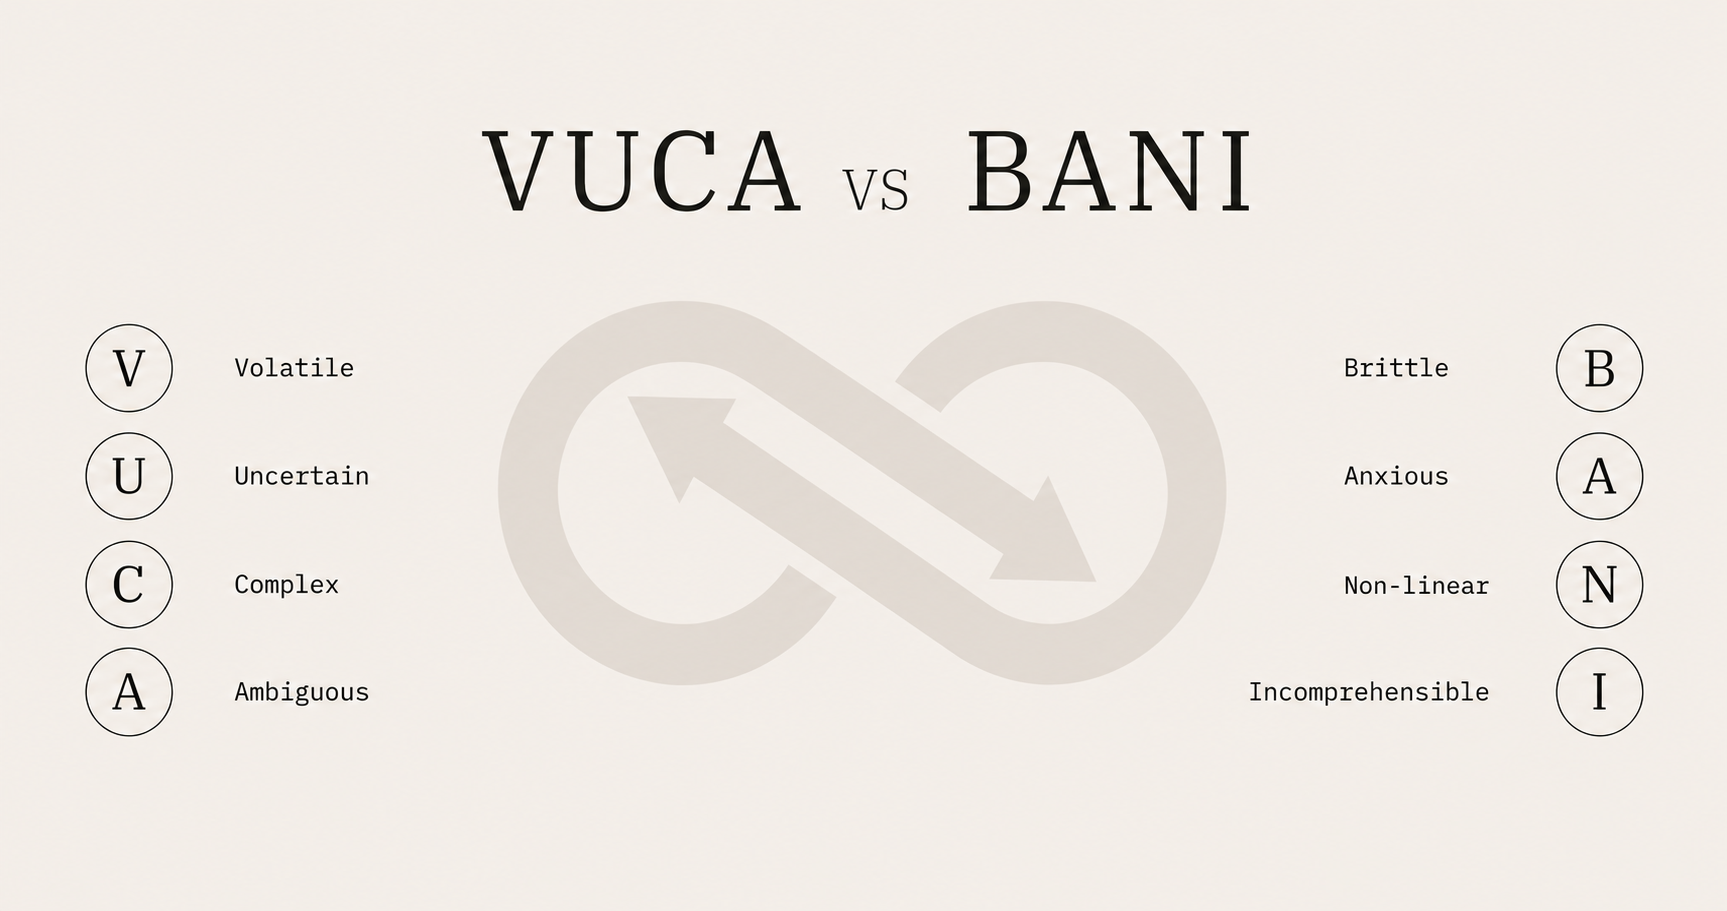
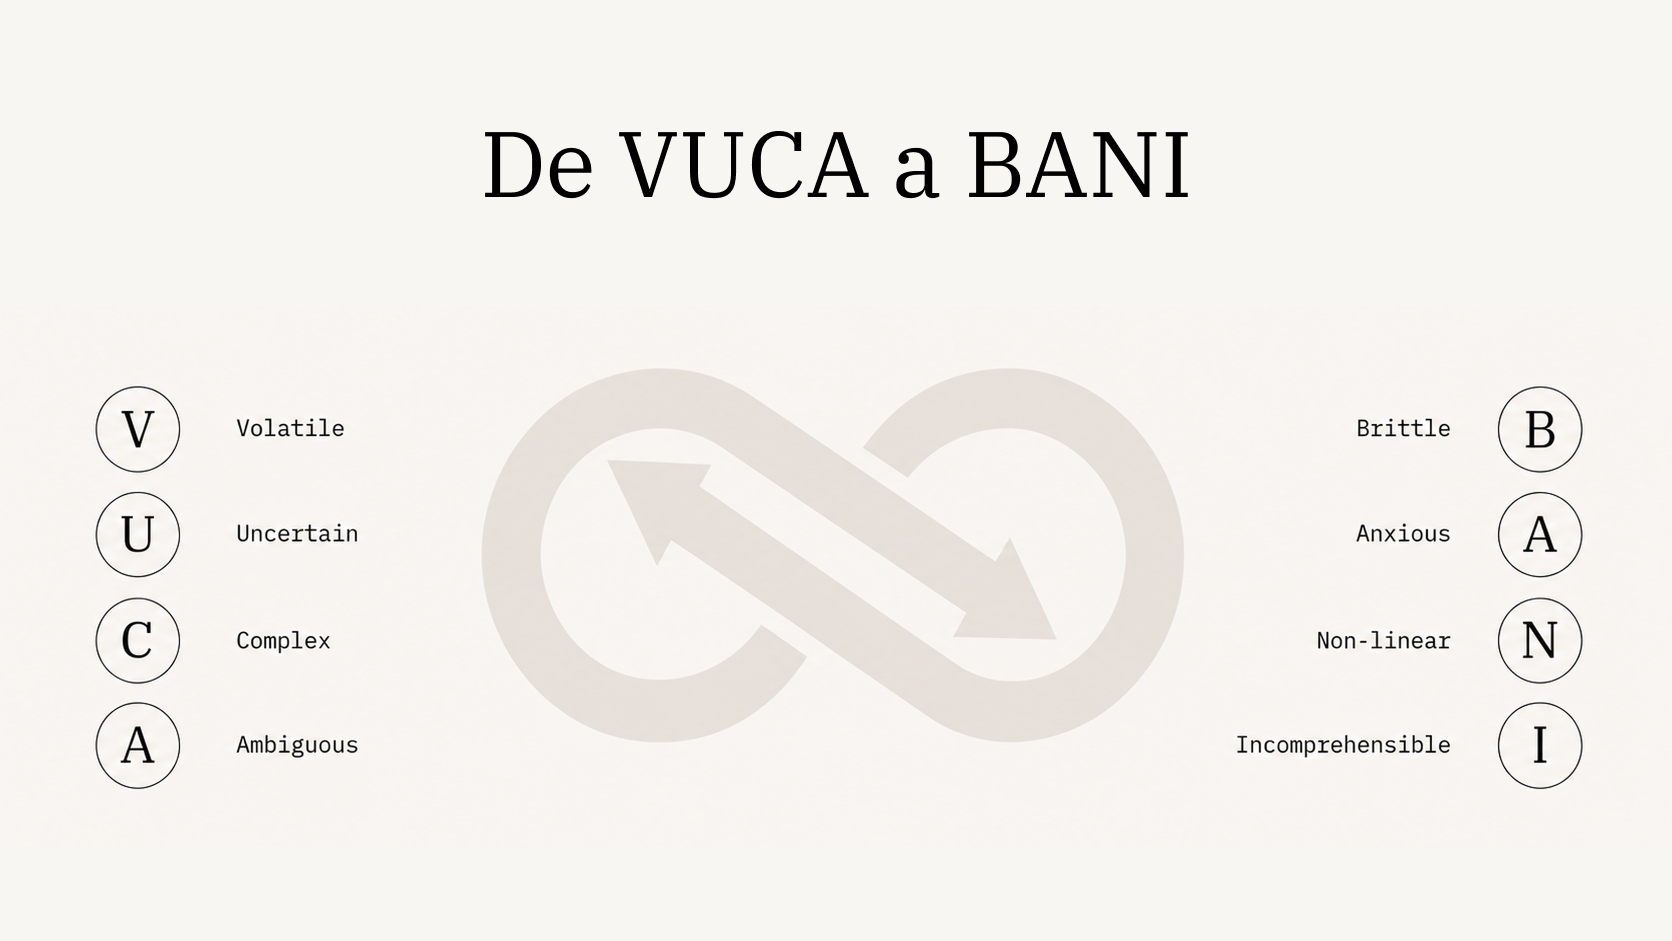
content(miradas): ajustes Brand Reset — fecha, tags, vídeo hero
- publishedAt 2026-06-08 en ES/CA/EN (unificado)
- tags a minúscula-guion (estrategias-de-marca, diseno-estrategico, branding)
- meta description ES revisada (autora)
- nuevo componente <Video> en MDXContent + hero de la home al final del artículo (ES/CA/EN)
- vucavsbani.webp reoptimizado (720KB→437KB)
- docs: paso de análisis de contenido para tags + documentación de <Video>

diff --git a/components/miradas/MDXContent.tsx b/components/miradas/MDXContent.tsx
@@ -33,6 +33,37 @@ function PullQuote({ children }: { children?: ReactNode }) {
   )
 }
 
+function Video({
+  src,
+  poster,
+  caption,
+}: {
+  src?: string
+  poster?: string
+  caption?: string
+}) {
+  if (!src) return null
+  return (
+    <figure className="my-10">
+      <video
+        src={src}
+        poster={poster}
+        autoPlay
+        muted
+        loop
+        playsInline
+        preload="metadata"
+        className="w-full h-auto"
+      />
+      {caption ? (
+        <figcaption className="mt-3 font-mono text-body-sm text-fg/60 leading-[1.5]">
+          {caption}
+        </figcaption>
+      ) : null}
+    </figure>
+  )
+}
+
 /* ==========================================================================
    MDXContent — render canónico de los artículos de Miradas
    --------------------------------------------------------------------------
@@ -117,6 +148,7 @@ const components: MDXComponents = {
   ),
   ImageWithCaption,
   PullQuote,
+  Video,
 }
 
 interface MDXContentProps {

diff --git a/docs/CONTRIBUTING-MIRADAS.md b/docs/CONTRIBUTING-MIRADAS.md
@@ -47,6 +47,26 @@ Fuente única de verdad: `lib/miradas/frontmatter.schema.ts` (`SUB_TO_PARENT`).
   usa un `localizedSlug` aparte (lo genera el script de traducción), pero el archivo se llama
   siempre `<slug-es>.mdx`.
 
+### Tags — análisis de contenido (paso obligatorio)
+
+Los tags **no son libres**: son un filtro UI client-side que agrupa artículos por igualdad
+**exacta** de string (sensible a mayúsculas/espacios/tildes) y son **invariantes** (se leen solo
+del frontmatter ES; CA/EN los heredan). Por eso, antes de inventar tags nuevos hay que
+**analizar el contenido del artículo y contrastarlo con los tags ya existentes**:
+
+1. **Lee el artículo** e identifica 3-5 temas/conceptos centrales.
+2. **Saca el inventario de tags existentes** y su frecuencia:
+   ```bash
+   for f in content/miradas/es/*/*.mdx; do
+     awk '/^tags:/{t=1;next} t&&/^[a-zA-Z]/{t=0} t&&/^[[:space:]]*-/{sub(/^[[:space:]]*-[[:space:]]*/,"");print}' "$f"
+   done | sed 's/^"//;s/"$//' | sort | uniq -c | sort -rn
+   ```
+3. **Reutiliza un tag existente siempre que exprese el mismo concepto** (así el artículo agrupa
+   en el filtro). Solo crea un tag nuevo si ningún existente encaja.
+4. **Formato:** minúsculas, con guiones, sin tildes ni espacios (`product-design`,
+   `diseno-estrategico`, `branding`). La UI muestra el tag reemplazando `-` por espacio.
+5. Propón la lista final al autor/a antes de fijarla.
+
 ---
 
 ## 2. Crear el archivo MDX (ES)
@@ -66,9 +86,9 @@ category: diseno-estrategico    # una de las 10 subcategorías
 parentCategory: pensamiento-estrategico   # debe casar con SUB_TO_PARENT[category]
 slug: mi-slug-del-articulo      # = nombre del archivo
 image: /miradas-assets/mi-slug-del-articulo/header.webp   # opcional (cover + og:image)
-tags:                           # opcional, minúsculas simples
-  - estrategia
-  - marca
+tags:                           # opcional. minúsculas-con-guiones, sin tildes ni espacios.
+  - estrategias-de-marca        # reutiliza tags existentes (ver § Tags) para que agrupen
+  - diseno-estrategico
 ---
 ```
 
@@ -80,9 +100,13 @@ tags:                           # opcional, minúsculas simples
 - Componentes MDX disponibles (definidos en `components/miradas/MDXContent.tsx`):
   - `<ImageWithCaption src="/miradas-assets/<slug>/<file>" alt="..." caption="..." />`
   - `<PullQuote>Cita destacada.</PullQuote>` — úsalo para las citas entrecomilladas del doc.
+  - `<Video src="/ruta/video.mp4" poster="/ruta/poster.webp" caption="..." />` — vídeo que
+    autoreproduce en silencio y en bucle (`autoPlay muted loop playsInline`), estilo banner.
+    `poster` y `caption` son opcionales. El único vídeo en `public/` hoy es el hero de la home:
+    `src="/home/hero-poster.mp4"`, `poster="/home/hero-poster.webp"`.
 - Enlaces externos: markdown normal `[texto](https://...)` (se abren en pestaña nueva solos).
-- **Vídeo:** no hay componente de vídeo. Si el doc trae marcadores `[video -> ...]`, se omiten
-  (o se consensúa una alternativa con quien mantenga el render).
+- **Vídeo del cuerpo:** usa `<Video>`. Si el doc trae un marcador `[video -> archivo.mp4]`,
+  el archivo debe existir en `public/` (no se descarga solo); si no está, pídelo o consensúa.
 
 ---
 
